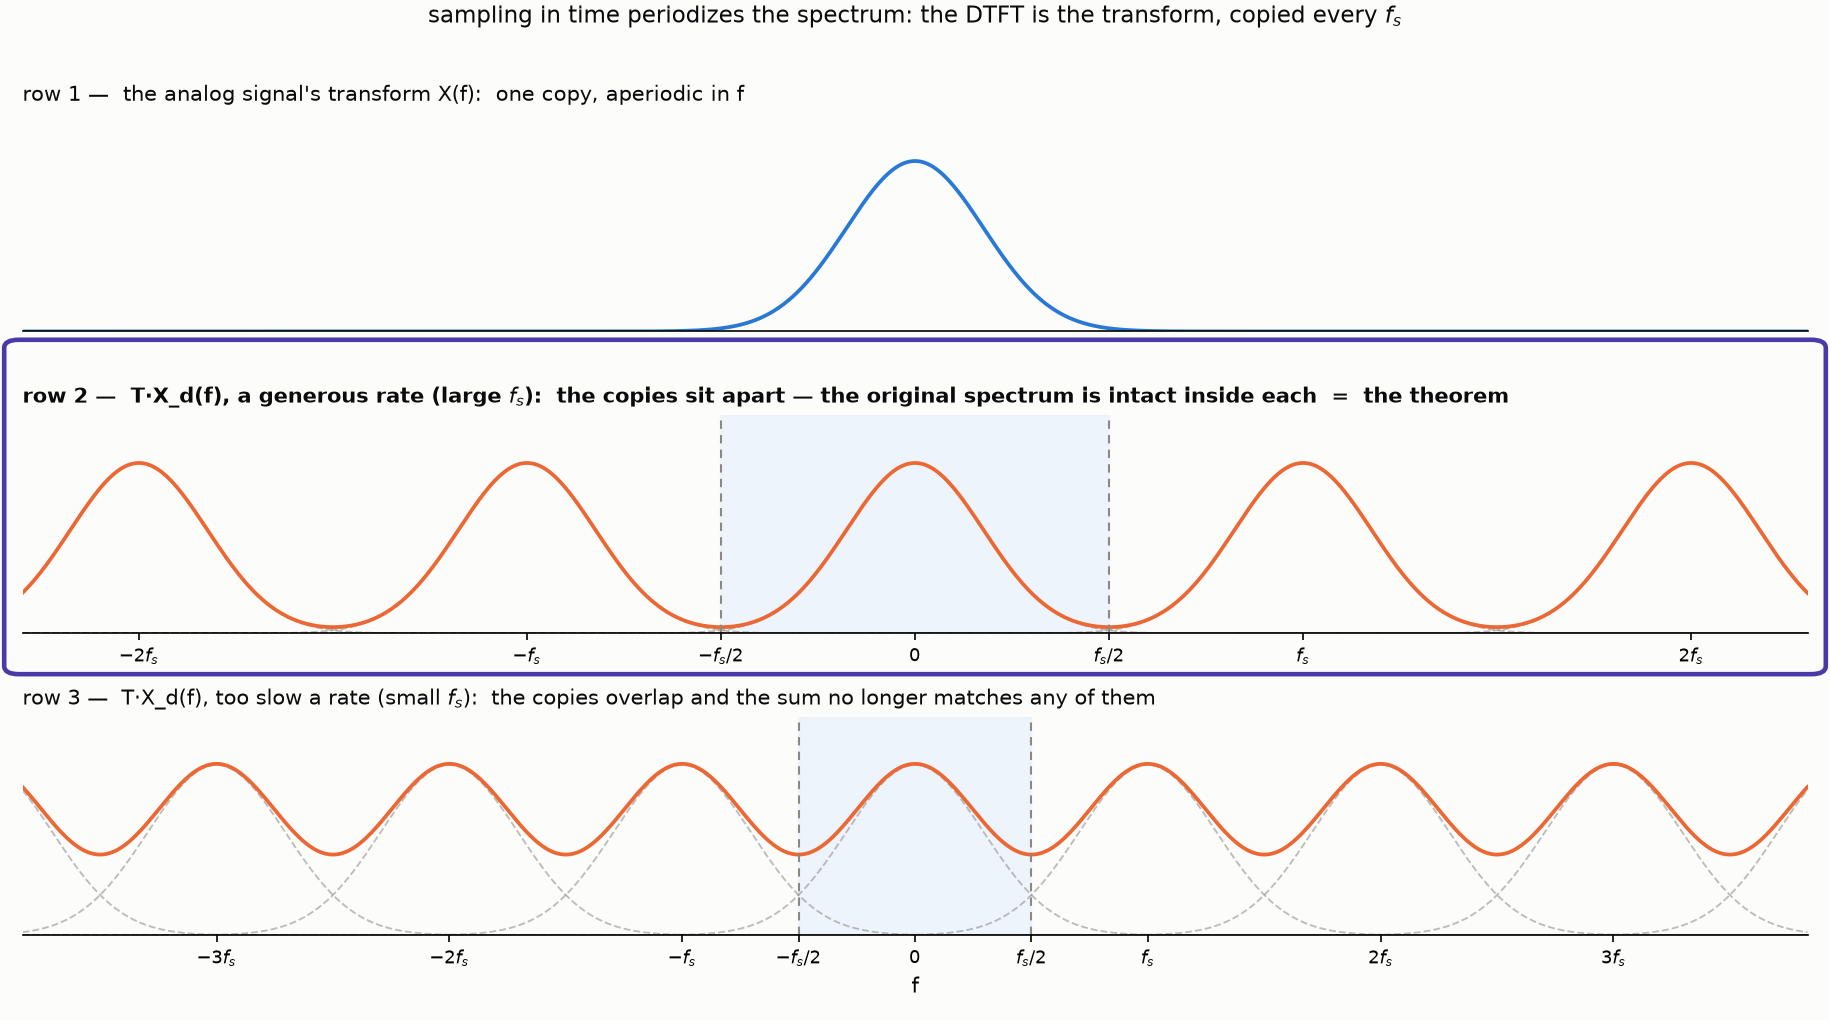
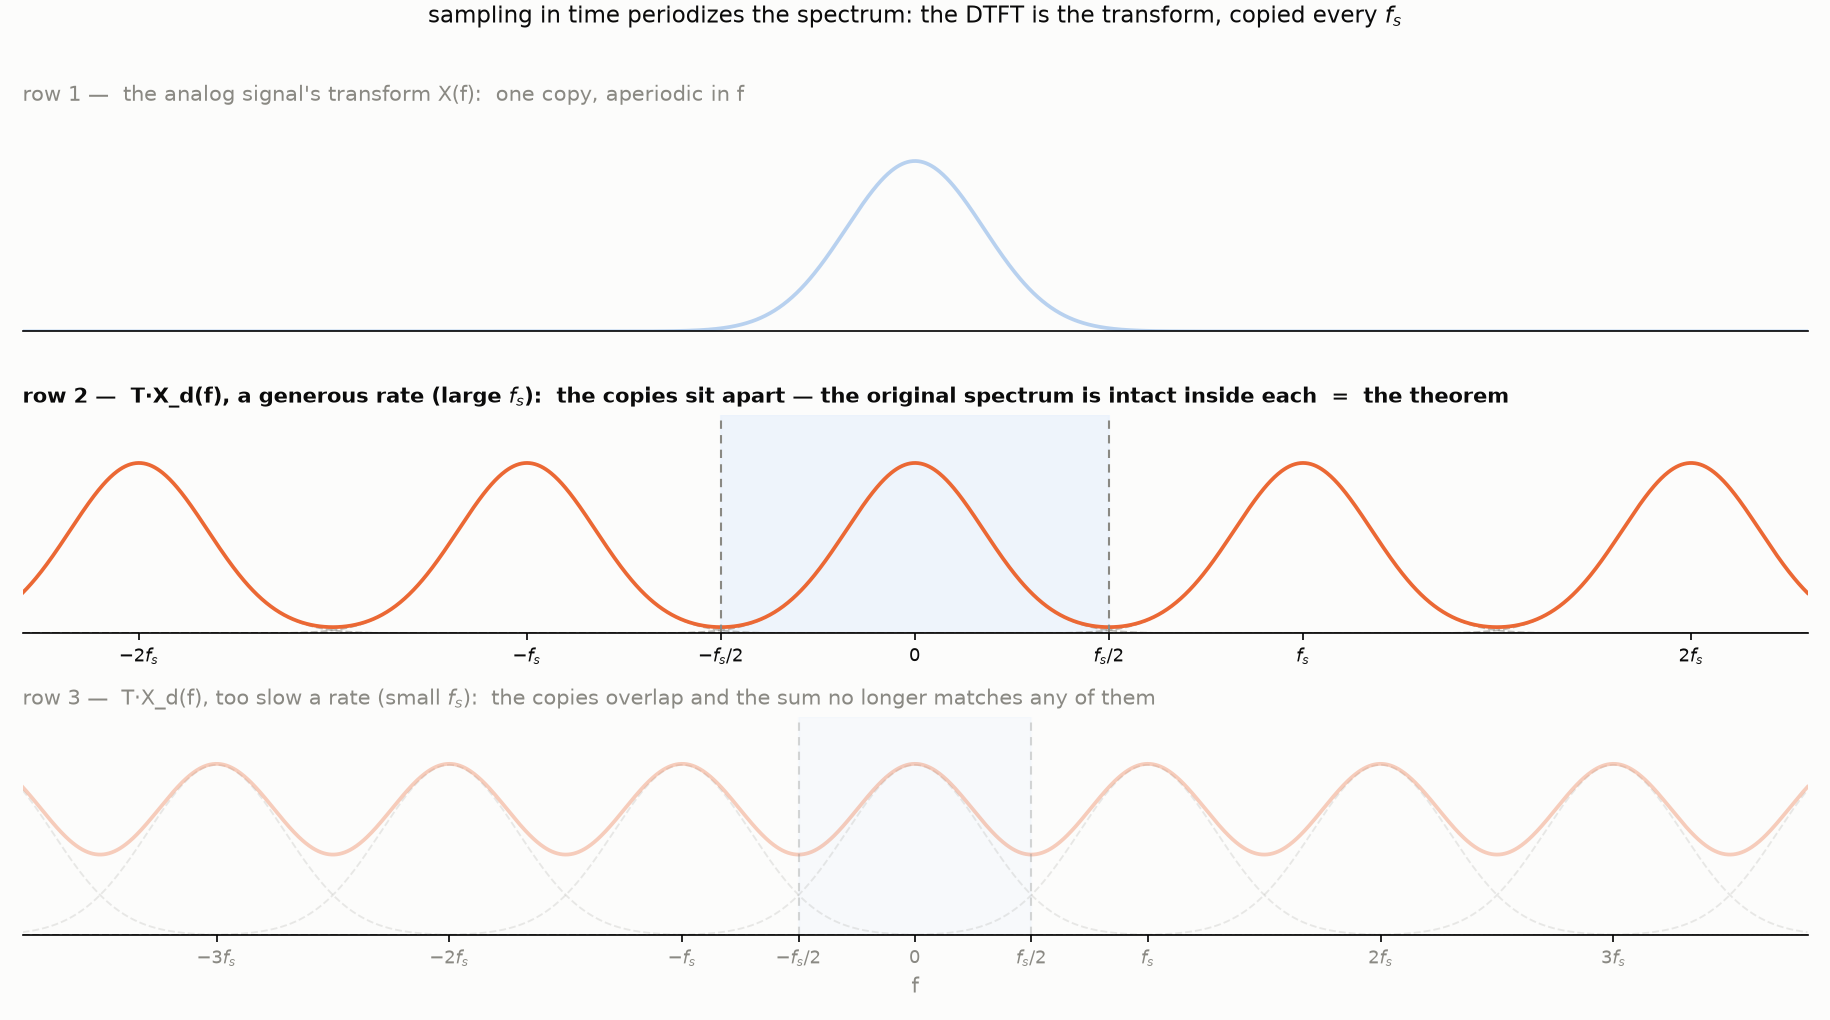
Three Names: dim rows 1 and 3 instead of framing row 2
Emphasis by attention, not by outline: the off-rows drop to alpha 0.32
with grey titles and ticks, row 2 stays at full strength with a bold
title; the frame is gone and the text says 'the one left at full
strength'.

diff --git a/content/posts/the-theorem-with-three-names/index.md b/content/posts/the-theorem-with-three-names/index.md
@@ -100,9 +100,9 @@ computed from the samples alone; and each integer $m$ contributes one
 term $X(f - m f_s)$, a *copy* of the original spectrum slid $m$ grid
 steps along the frequency axis (the picture is [the copies figure of
 Four Shades](/posts/four-shades-of-fourier/#the-copies-what-sampling-does-to-a-spectrum);
-today we need **row 2** of it, the framed one):
+today we need **row 2** of it, the one left at full strength):
 
-![The copies picture, with row 2 — the theorem's row — framed in violet](copies_row2.png)
+![The copies picture, with row 2 — the theorem's row — at full strength and the other rows dimmed](copies_row2.png)
 
 Now put the two hypotheses side by side. Each copy occupies
 $(-B, B)$ around its own center; the centers sit $f_s$ apart; and
